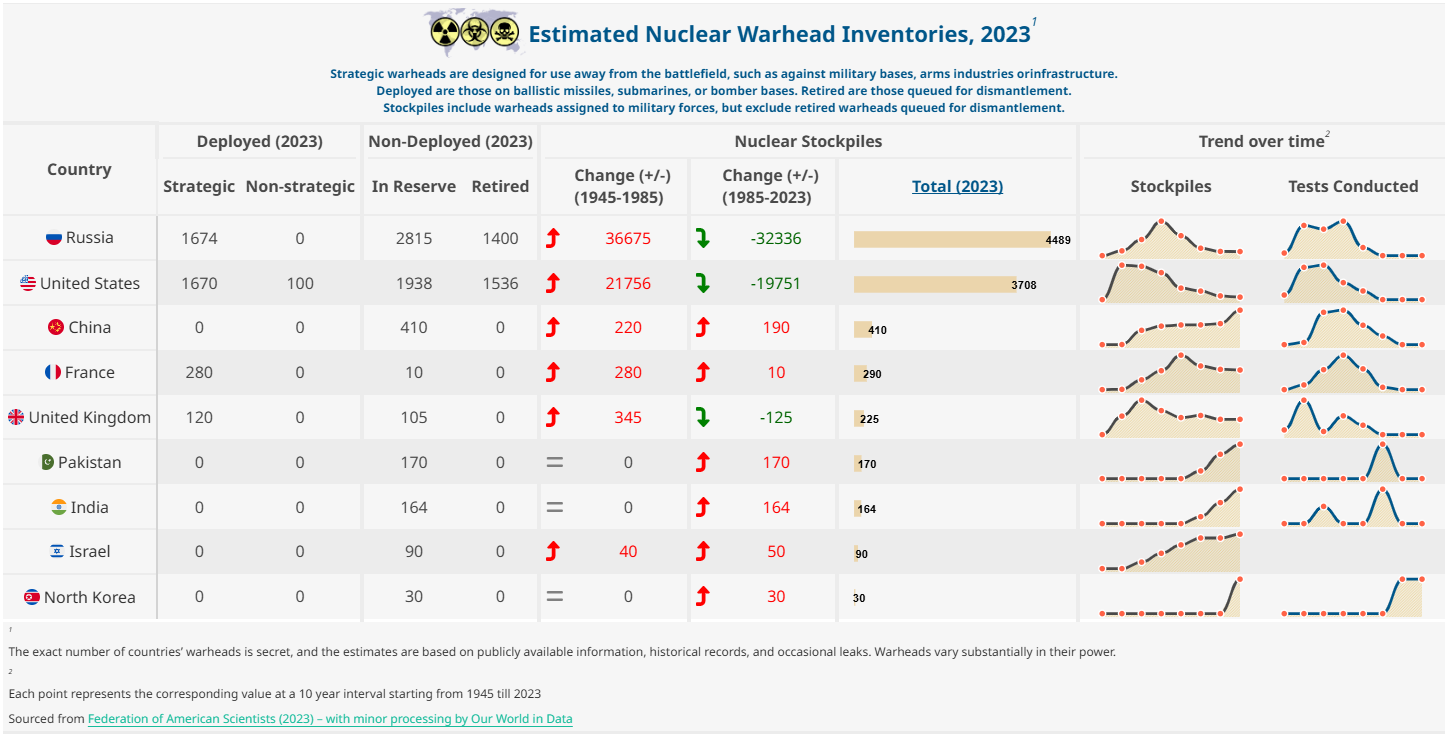
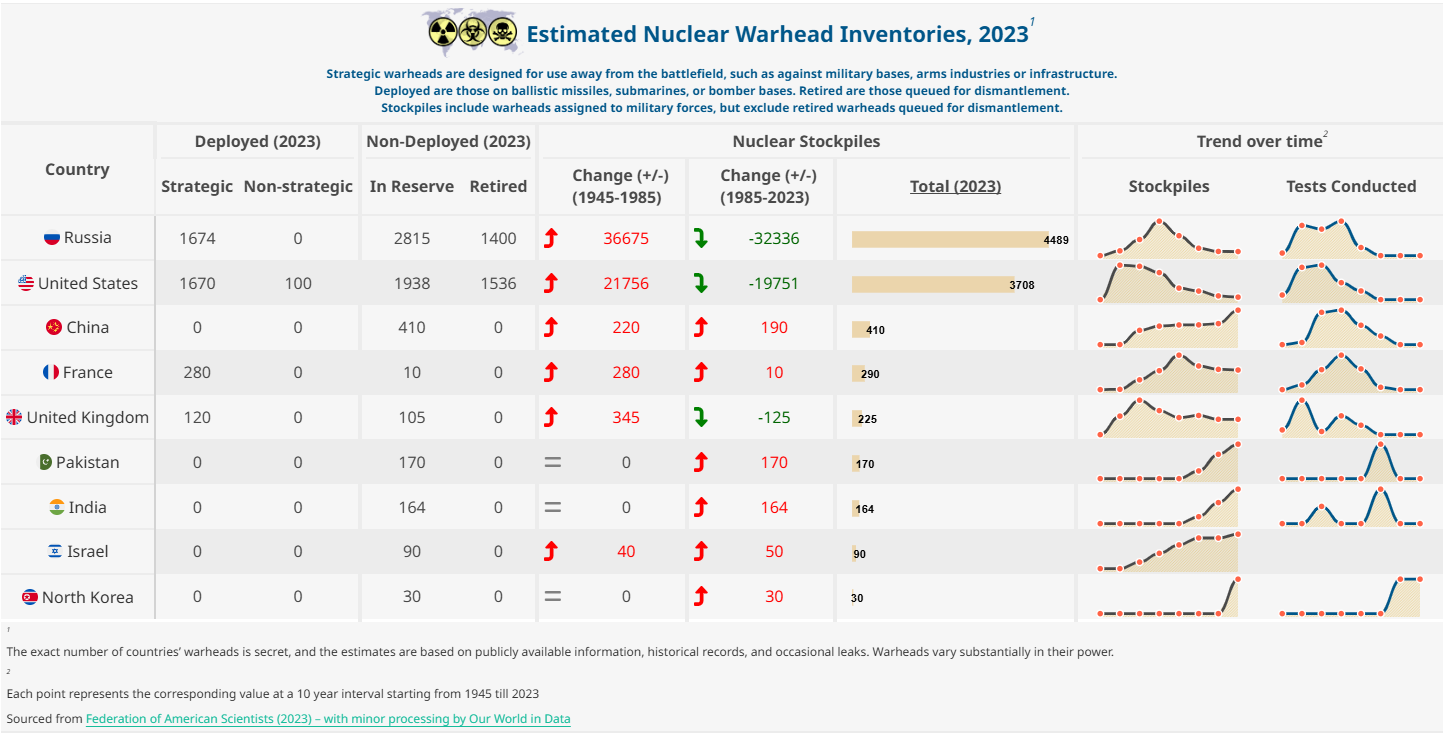
fix typo

diff --git a/warheads.html b/warheads.html
@@ -90,24 +90,24 @@ grid-auto-rows: minmax(0, 1fr);">
 <div class="card cell bslib-card html-fill-container" data-bslib-card-init="" data-require-bs-caller="card()" data-full-screen="false">
 <div class="card-body html-fill-item html-fill-container">
 <div class="cell-output-display html-fill-item html-fill-container">
-<div id="ktjmadocdn" style="padding-left:0px;padding-right:0px;padding-top:10px;padding-bottom:10px;overflow-x:auto;overflow-y:auto;width:auto;height:auto;" class="html-fill-item html-fill-container">
+<div id="tvxpvddiuu" style="padding-left:0px;padding-right:0px;padding-top:10px;padding-bottom:10px;overflow-x:auto;overflow-y:auto;width:auto;height:auto;" class="html-fill-item html-fill-container">
 <style>@import url("https://fonts.googleapis.com/css2?family=Noto+Sans:ital,wght@0,100;0,200;0,300;0,400;0,500;0,600;0,700;0,800;0,900;1,100;1,200;1,300;1,400;1,500;1,600;1,700;1,800;1,900&display=swap");
-#ktjmadocdn table {
+#tvxpvddiuu table {
   font-family: 'Noto Sans', system-ui, 'Segoe UI', Roboto, Helvetica, Arial, sans-serif, 'Apple Color Emoji', 'Segoe UI Emoji', 'Segoe UI Symbol', 'Noto Color Emoji';
   -webkit-font-smoothing: antialiased;
   -moz-osx-font-smoothing: grayscale;
 }
 
-#ktjmadocdn thead, #ktjmadocdn tbody, #ktjmadocdn tfoot, #ktjmadocdn tr, #ktjmadocdn td, #ktjmadocdn th {
+#tvxpvddiuu thead, #tvxpvddiuu tbody, #tvxpvddiuu tfoot, #tvxpvddiuu tr, #tvxpvddiuu td, #tvxpvddiuu th {
   border-style: none;
 }
 
-#ktjmadocdn p {
+#tvxpvddiuu p {
   margin: 0;
   padding: 0;
 }
 
-#ktjmadocdn .gt_table {
+#tvxpvddiuu .gt_table {
   display: table;
   border-collapse: collapse;
   line-height: normal;
@@ -133,12 +133,12 @@ grid-auto-rows: minmax(0, 1fr);">
   border-left-color: #D3D3D3;
 }
 
-#ktjmadocdn .gt_caption {
+#tvxpvddiuu .gt_caption {
   padding-top: 4px;
   padding-bottom: 4px;
 }
 
-#ktjmadocdn .gt_title {
+#tvxpvddiuu .gt_title {
   color: #333333;
   font-size: 125%;
   font-weight: initial;
@@ -150,7 +150,7 @@ grid-auto-rows: minmax(0, 1fr);">
   border-bottom-width: 0;
 }
 
-#ktjmadocdn .gt_subtitle {
+#tvxpvddiuu .gt_subtitle {
   color: #333333;
   font-size: 85%;
   font-weight: initial;
@@ -162,7 +162,7 @@ grid-auto-rows: minmax(0, 1fr);">
   border-top-width: 0;
 }
 
-#ktjmadocdn .gt_heading {
+#tvxpvddiuu .gt_heading {
   background-color: #F6F6F6;
   text-align: left;
   border-bottom-color: #F6F6F6;
@@ -174,13 +174,13 @@ grid-auto-rows: minmax(0, 1fr);">
   border-right-color: #D3D3D3;
 }
 
-#ktjmadocdn .gt_bottom_border {
+#tvxpvddiuu .gt_bottom_border {
   border-bottom-style: solid;
   border-bottom-width: 0px;
   border-bottom-color: #D3D3D3;
 }
 
-#ktjmadocdn .gt_col_headings {
+#tvxpvddiuu .gt_col_headings {
   border-top-style: solid;
   border-top-width: 1px;
   border-top-color: #ECECEC;
@@ -195,7 +195,7 @@ grid-auto-rows: minmax(0, 1fr);">
   border-right-color: #D3D3D3;
 }
 
-#ktjmadocdn .gt_col_heading {
+#tvxpvddiuu .gt_col_heading {
   color: #333333;
   background-color: #F6F6F6;
   font-size: 100%;
@@ -215,7 +215,7 @@ grid-auto-rows: minmax(0, 1fr);">
   overflow-x: hidden;
 }
 
-#ktjmadocdn .gt_column_spanner_outer {
+#tvxpvddiuu .gt_column_spanner_outer {
   color: #333333;
   background-color: #F6F6F6;
   font-size: 100%;
@@ -227,15 +227,15 @@ grid-auto-rows: minmax(0, 1fr);">
   padding-right: 4px;
 }
 
-#ktjmadocdn .gt_column_spanner_outer:first-child {
+#tvxpvddiuu .gt_column_spanner_outer:first-child {
   padding-left: 0;
 }
 
-#ktjmadocdn .gt_column_spanner_outer:last-child {
+#tvxpvddiuu .gt_column_spanner_outer:last-child {
   padding-right: 0;
 }
 
-#ktjmadocdn .gt_column_spanner {
+#tvxpvddiuu .gt_column_spanner {
   border-bottom-style: solid;
   border-bottom-width: 2px;
   border-bottom-color: #ECECEC;
@@ -247,11 +247,11 @@ grid-auto-rows: minmax(0, 1fr);">
   width: 100%;
 }
 
-#ktjmadocdn .gt_spanner_row {
+#tvxpvddiuu .gt_spanner_row {
   border-bottom-style: hidden;
 }
 
-#ktjmadocdn .gt_group_heading {
+#tvxpvddiuu .gt_group_heading {
   padding-top: 8px;
   padding-bottom: 8px;
   padding-left: 5px;
@@ -277,7 +277,7 @@ grid-auto-rows: minmax(0, 1fr);">
   text-align: left;
 }
 
-#ktjmadocdn .gt_empty_group_heading {
+#tvxpvddiuu .gt_empty_group_heading {
   padding: 0.5px;
   color: #333333;
   background-color: #F6F6F6;
@@ -292,15 +292,15 @@ grid-auto-rows: minmax(0, 1fr);">
   vertical-align: middle;
 }
 
-#ktjmadocdn .gt_from_md > :first-child {
+#tvxpvddiuu .gt_from_md > :first-child {
   margin-top: 0;
 }
 
-#ktjmadocdn .gt_from_md > :last-child {
+#tvxpvddiuu .gt_from_md > :last-child {
   margin-bottom: 0;
 }
 
-#ktjmadocdn .gt_row {
+#tvxpvddiuu .gt_row {
   padding-top: 4px;
   padding-bottom: 4px;
   padding-left: 5px;
@@ -319,7 +319,7 @@ grid-auto-rows: minmax(0, 1fr);">
   overflow-x: hidden;
 }
 
-#ktjmadocdn .gt_stub {
+#tvxpvddiuu .gt_stub {
   color: #333333;
   background-color: #F6F6F6;
   font-size: 100%;
@@ -332,7 +332,7 @@ grid-auto-rows: minmax(0, 1fr);">
   padding-right: 5px;
 }
 
-#ktjmadocdn .gt_stub_row_group {
+#tvxpvddiuu .gt_stub_row_group {
   color: #333333;
   background-color: #F6F6F6;
   font-size: 100%;
@@ -346,15 +346,15 @@ grid-auto-rows: minmax(0, 1fr);">
   vertical-align: top;
 }
 
-#ktjmadocdn .gt_row_group_first td {
+#tvxpvddiuu .gt_row_group_first td {
   border-top-width: 1px;
 }
 
-#ktjmadocdn .gt_row_group_first th {
+#tvxpvddiuu .gt_row_group_first th {
   border-top-width: 1px;
 }
 
-#ktjmadocdn .gt_summary_row {
+#tvxpvddiuu .gt_summary_row {
   color: #333333;
   background-color: #F6F6F6;
   text-transform: inherit;
@@ -364,16 +364,16 @@ grid-auto-rows: minmax(0, 1fr);">
   padding-right: 5px;
 }
 
-#ktjmadocdn .gt_first_summary_row {
+#tvxpvddiuu .gt_first_summary_row {
   border-top-style: solid;
   border-top-color: #D3D3D3;
 }
 
-#ktjmadocdn .gt_first_summary_row.thick {
+#tvxpvddiuu .gt_first_summary_row.thick {
   border-top-width: 2px;
 }
 
-#ktjmadocdn .gt_last_summary_row {
+#tvxpvddiuu .gt_last_summary_row {
   padding-top: 8px;
   padding-bottom: 8px;
   padding-left: 5px;
@@ -383,7 +383,7 @@ grid-auto-rows: minmax(0, 1fr);">
   border-bottom-color: #D3D3D3;
 }
 
-#ktjmadocdn .gt_grand_summary_row {
+#tvxpvddiuu .gt_grand_summary_row {
   color: #333333;
   background-color: #F6F6F6;
   text-transform: inherit;
@@ -393,7 +393,7 @@ grid-auto-rows: minmax(0, 1fr);">
   padding-right: 5px;
 }
 
-#ktjmadocdn .gt_first_grand_summary_row {
+#tvxpvddiuu .gt_first_grand_summary_row {
   padding-top: 8px;
   padding-bottom: 8px;
   padding-left: 5px;
@@ -403,7 +403,7 @@ grid-auto-rows: minmax(0, 1fr);">
   border-top-color: #D3D3D3;
 }
 
-#ktjmadocdn .gt_last_grand_summary_row_top {
+#tvxpvddiuu .gt_last_grand_summary_row_top {
   padding-top: 8px;
   padding-bottom: 8px;
   padding-left: 5px;
@@ -413,11 +413,11 @@ grid-auto-rows: minmax(0, 1fr);">
   border-bottom-color: #D3D3D3;
 }
 
-#ktjmadocdn .gt_striped {
+#tvxpvddiuu .gt_striped {
   background-color: #ECECEC;
 }
 
-#ktjmadocdn .gt_table_body {
+#tvxpvddiuu .gt_table_body {
   border-top-style: solid;
   border-top-width: 2px;
   border-top-color: #D3D3D3;
@@ -426,7 +426,7 @@ grid-auto-rows: minmax(0, 1fr);">
   border-bottom-color: #FFFFFF;
 }
 
-#ktjmadocdn .gt_footnotes {
+#tvxpvddiuu .gt_footnotes {
   color: #333333;
   background-color: #F6F6F6;
   border-bottom-style: none;
@@ -440,7 +440,7 @@ grid-auto-rows: minmax(0, 1fr);">
   border-right-color: #D3D3D3;
 }
 
-#ktjmadocdn .gt_footnote {
+#tvxpvddiuu .gt_footnote {
   margin: 0px;
   font-size: 90%;
   padding-top: 4px;
@@ -449,7 +449,7 @@ grid-auto-rows: minmax(0, 1fr);">
   padding-right: 5px;
 }
 
-#ktjmadocdn .gt_sourcenotes {
+#tvxpvddiuu .gt_sourcenotes {
   color: #333333;
   background-color: #F6F6F6;
   border-bottom-style: none;
@@ -463,7 +463,7 @@ grid-auto-rows: minmax(0, 1fr);">
   border-right-color: #D3D3D3;
 }
 
-#ktjmadocdn .gt_sourcenote {
+#tvxpvddiuu .gt_sourcenote {
   font-size: 12px;
   padding-top: 4px;
   padding-bottom: 4px;
@@ -471,72 +471,72 @@ grid-auto-rows: minmax(0, 1fr);">
   padding-right: 5px;
 }
 
-#ktjmadocdn .gt_left {
+#tvxpvddiuu .gt_left {
   text-align: left;
 }
 
-#ktjmadocdn .gt_center {
+#tvxpvddiuu .gt_center {
   text-align: center;
 }
 
-#ktjmadocdn .gt_right {
+#tvxpvddiuu .gt_right {
   text-align: right;
   font-variant-numeric: tabular-nums;
 }
 
-#ktjmadocdn .gt_font_normal {
+#tvxpvddiuu .gt_font_normal {
   font-weight: normal;
 }
 
-#ktjmadocdn .gt_font_bold {
+#tvxpvddiuu .gt_font_bold {
   font-weight: bold;
 }
 
-#ktjmadocdn .gt_font_italic {
+#tvxpvddiuu .gt_font_italic {
   font-style: italic;
 }
 
-#ktjmadocdn .gt_super {
+#tvxpvddiuu .gt_super {
   font-size: 65%;
 }
 
-#ktjmadocdn .gt_footnote_marks {
+#tvxpvddiuu .gt_footnote_marks {
   font-size: 75%;
   vertical-align: 0.4em;
   position: initial;
 }
 
-#ktjmadocdn .gt_asterisk {
+#tvxpvddiuu .gt_asterisk {
   font-size: 100%;
   vertical-align: 0;
 }
 
-#ktjmadocdn .gt_indent_1 {
+#tvxpvddiuu .gt_indent_1 {
   text-indent: 5px;
 }
 
-#ktjmadocdn .gt_indent_2 {
+#tvxpvddiuu .gt_indent_2 {
   text-indent: 10px;
 }
 
-#ktjmadocdn .gt_indent_3 {
+#tvxpvddiuu .gt_indent_3 {
   text-indent: 15px;
 }
 
-#ktjmadocdn .gt_indent_4 {
+#tvxpvddiuu .gt_indent_4 {
   text-indent: 20px;
 }
 
-#ktjmadocdn .gt_indent_5 {
+#tvxpvddiuu .gt_indent_5 {
   text-indent: 25px;
 }
 
-#ktjmadocdn .katex-display {
+#tvxpvddiuu .katex-display {
   display: inline-flex !important;
   margin-bottom: 0.75em !important;
 }
 
-#ktjmadocdn div.Reactable > div.rt-table > div.rt-thead > div.rt-tr.rt-tr-group-header > div.rt-th-group:after {
+#tvxpvddiuu div.Reactable > div.rt-table > div.rt-thead > div.rt-tr.rt-tr-group-header > div.rt-th-group:after {
   height: 0px !important;
 }
 
@@ -565,7 +565,7 @@ grid-auto-rows: minmax(0, 1fr);">
 }
 
 abbr[title] {
-  color: #005689 !important;
+  color: #494949 !important;
 }
 </style>
 <table class="gt_table" style="table-layout: fixed;" data-quarto-disable-processing="false" data-quarto-bootstrap="false">
@@ -588,7 +588,7 @@ abbr[title] {
       <td colspan="12" class="gt_heading gt_title gt_font_normal" style="text-align: center; color: #005689; font-size: 22px; font-weight: 700;"><div style="display:inline;margin-left:10px" class="html-fill-item html-fill-container"><img src="warhead.png" style="height:50px;"></div><div style="display:inline;vertical-align: middle;" class="html-fill-item html-fill-container">Estimated Nuclear Warhead Inventories, 2023</div><span class="gt_footnote_marks" style="white-space:nowrap;font-style:italic;font-weight:normal;line-height: 0;"><sup>1</sup></span></td>
     </tr>
     <tr class="gt_heading">
-      <td colspan="12" class="gt_heading gt_subtitle gt_font_normal gt_bottom_border" style="text-align: center; color: #005689; font-size: 16px; font-weight: 700;"><div data-qmd="Strategic warheads are designed for use away from the battlefield, such as against military bases, arms industries orinfrastructure.<br>Deployed are those on ballistic missiles, submarines, or bomber bases. Retired are those queued for dismantlement.<br>Stockpiles include warheads assigned to military forces, but exclude retired warheads queued for dismantlement.</br>" class="html-fill-item html-fill-container"><div class="gt_from_md html-fill-item html-fill-container"><p>Strategic warheads are designed for use away from the battlefield, such as against military bases, arms industries orinfrastructure.<br>Deployed are those on ballistic missiles, submarines, or bomber bases. Retired are those queued for dismantlement.<br>Stockpiles include warheads assigned to military forces, but exclude retired warheads queued for dismantlement.<br></p>
+      <td colspan="12" class="gt_heading gt_subtitle gt_font_normal gt_bottom_border" style="text-align: center; color: #005689; font-size: 16px; font-weight: 700;"><div data-qmd="Strategic warheads are designed for use away from the battlefield, such as against military bases, arms industries or infrastructure.<br>Deployed are those on ballistic missiles, submarines, or bomber bases. Retired are those queued for dismantlement.<br>Stockpiles include warheads assigned to military forces, but exclude retired warheads queued for dismantlement.</br>" class="html-fill-item html-fill-container"><div class="gt_from_md html-fill-item html-fill-container"><p>Strategic warheads are designed for use away from the battlefield, such as against military bases, arms industries or infrastructure.<br>Deployed are those on ballistic missiles, submarines, or bomber bases. Retired are those queued for dismantlement.<br>Stockpiles include warheads assigned to military forces, but exclude retired warheads queued for dismantlement.<br></p>
 </div></div></td>
     </tr>
     <tr class="gt_col_headings gt_spanner_row">
